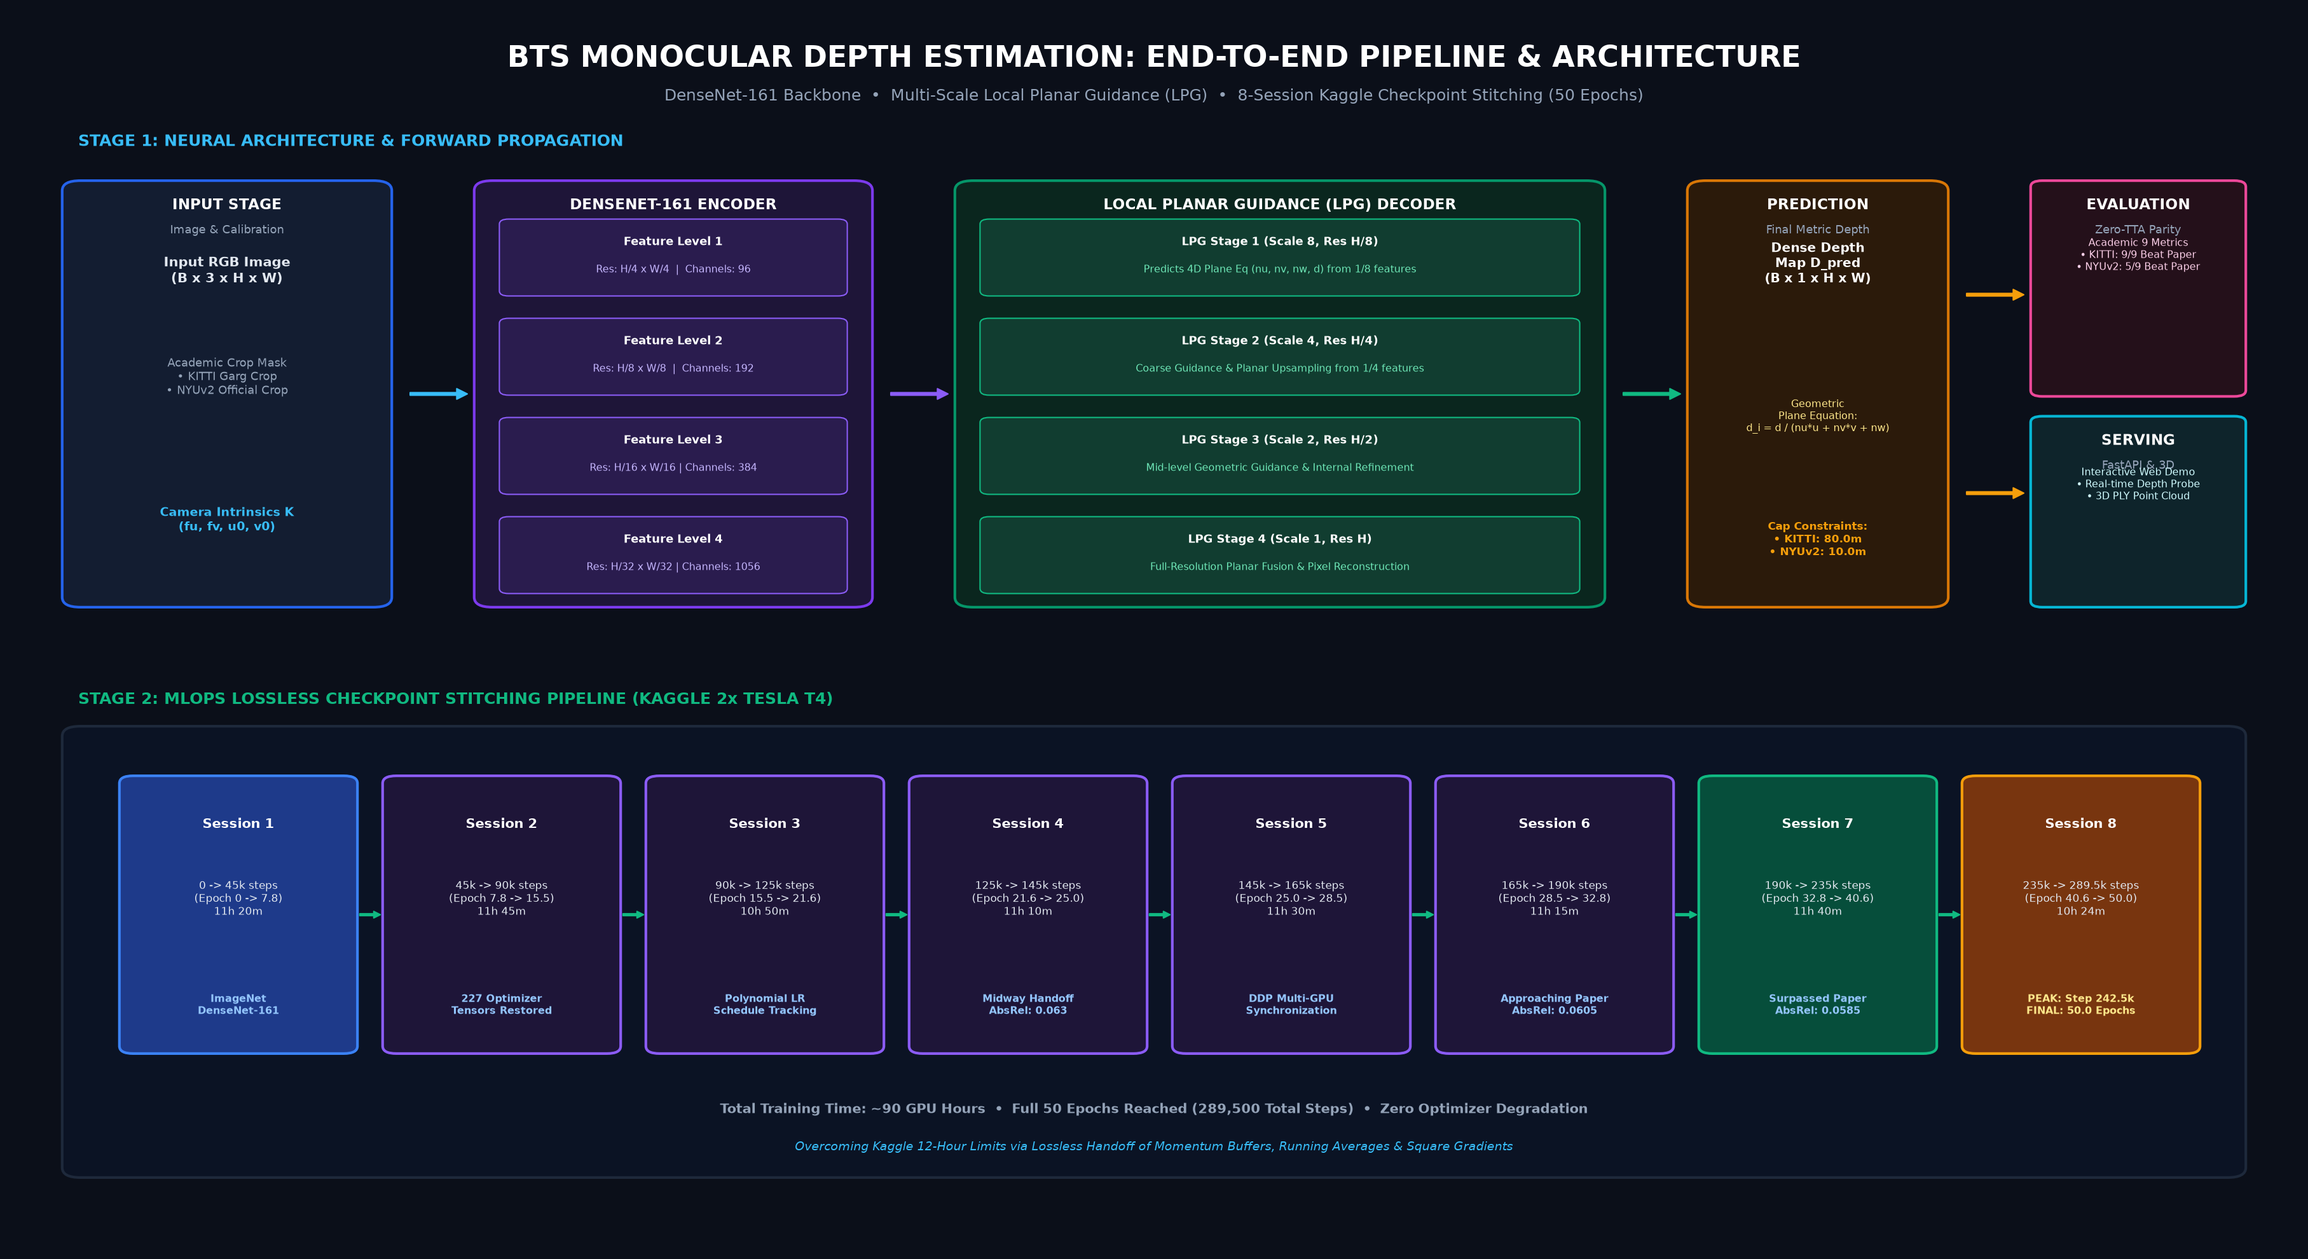
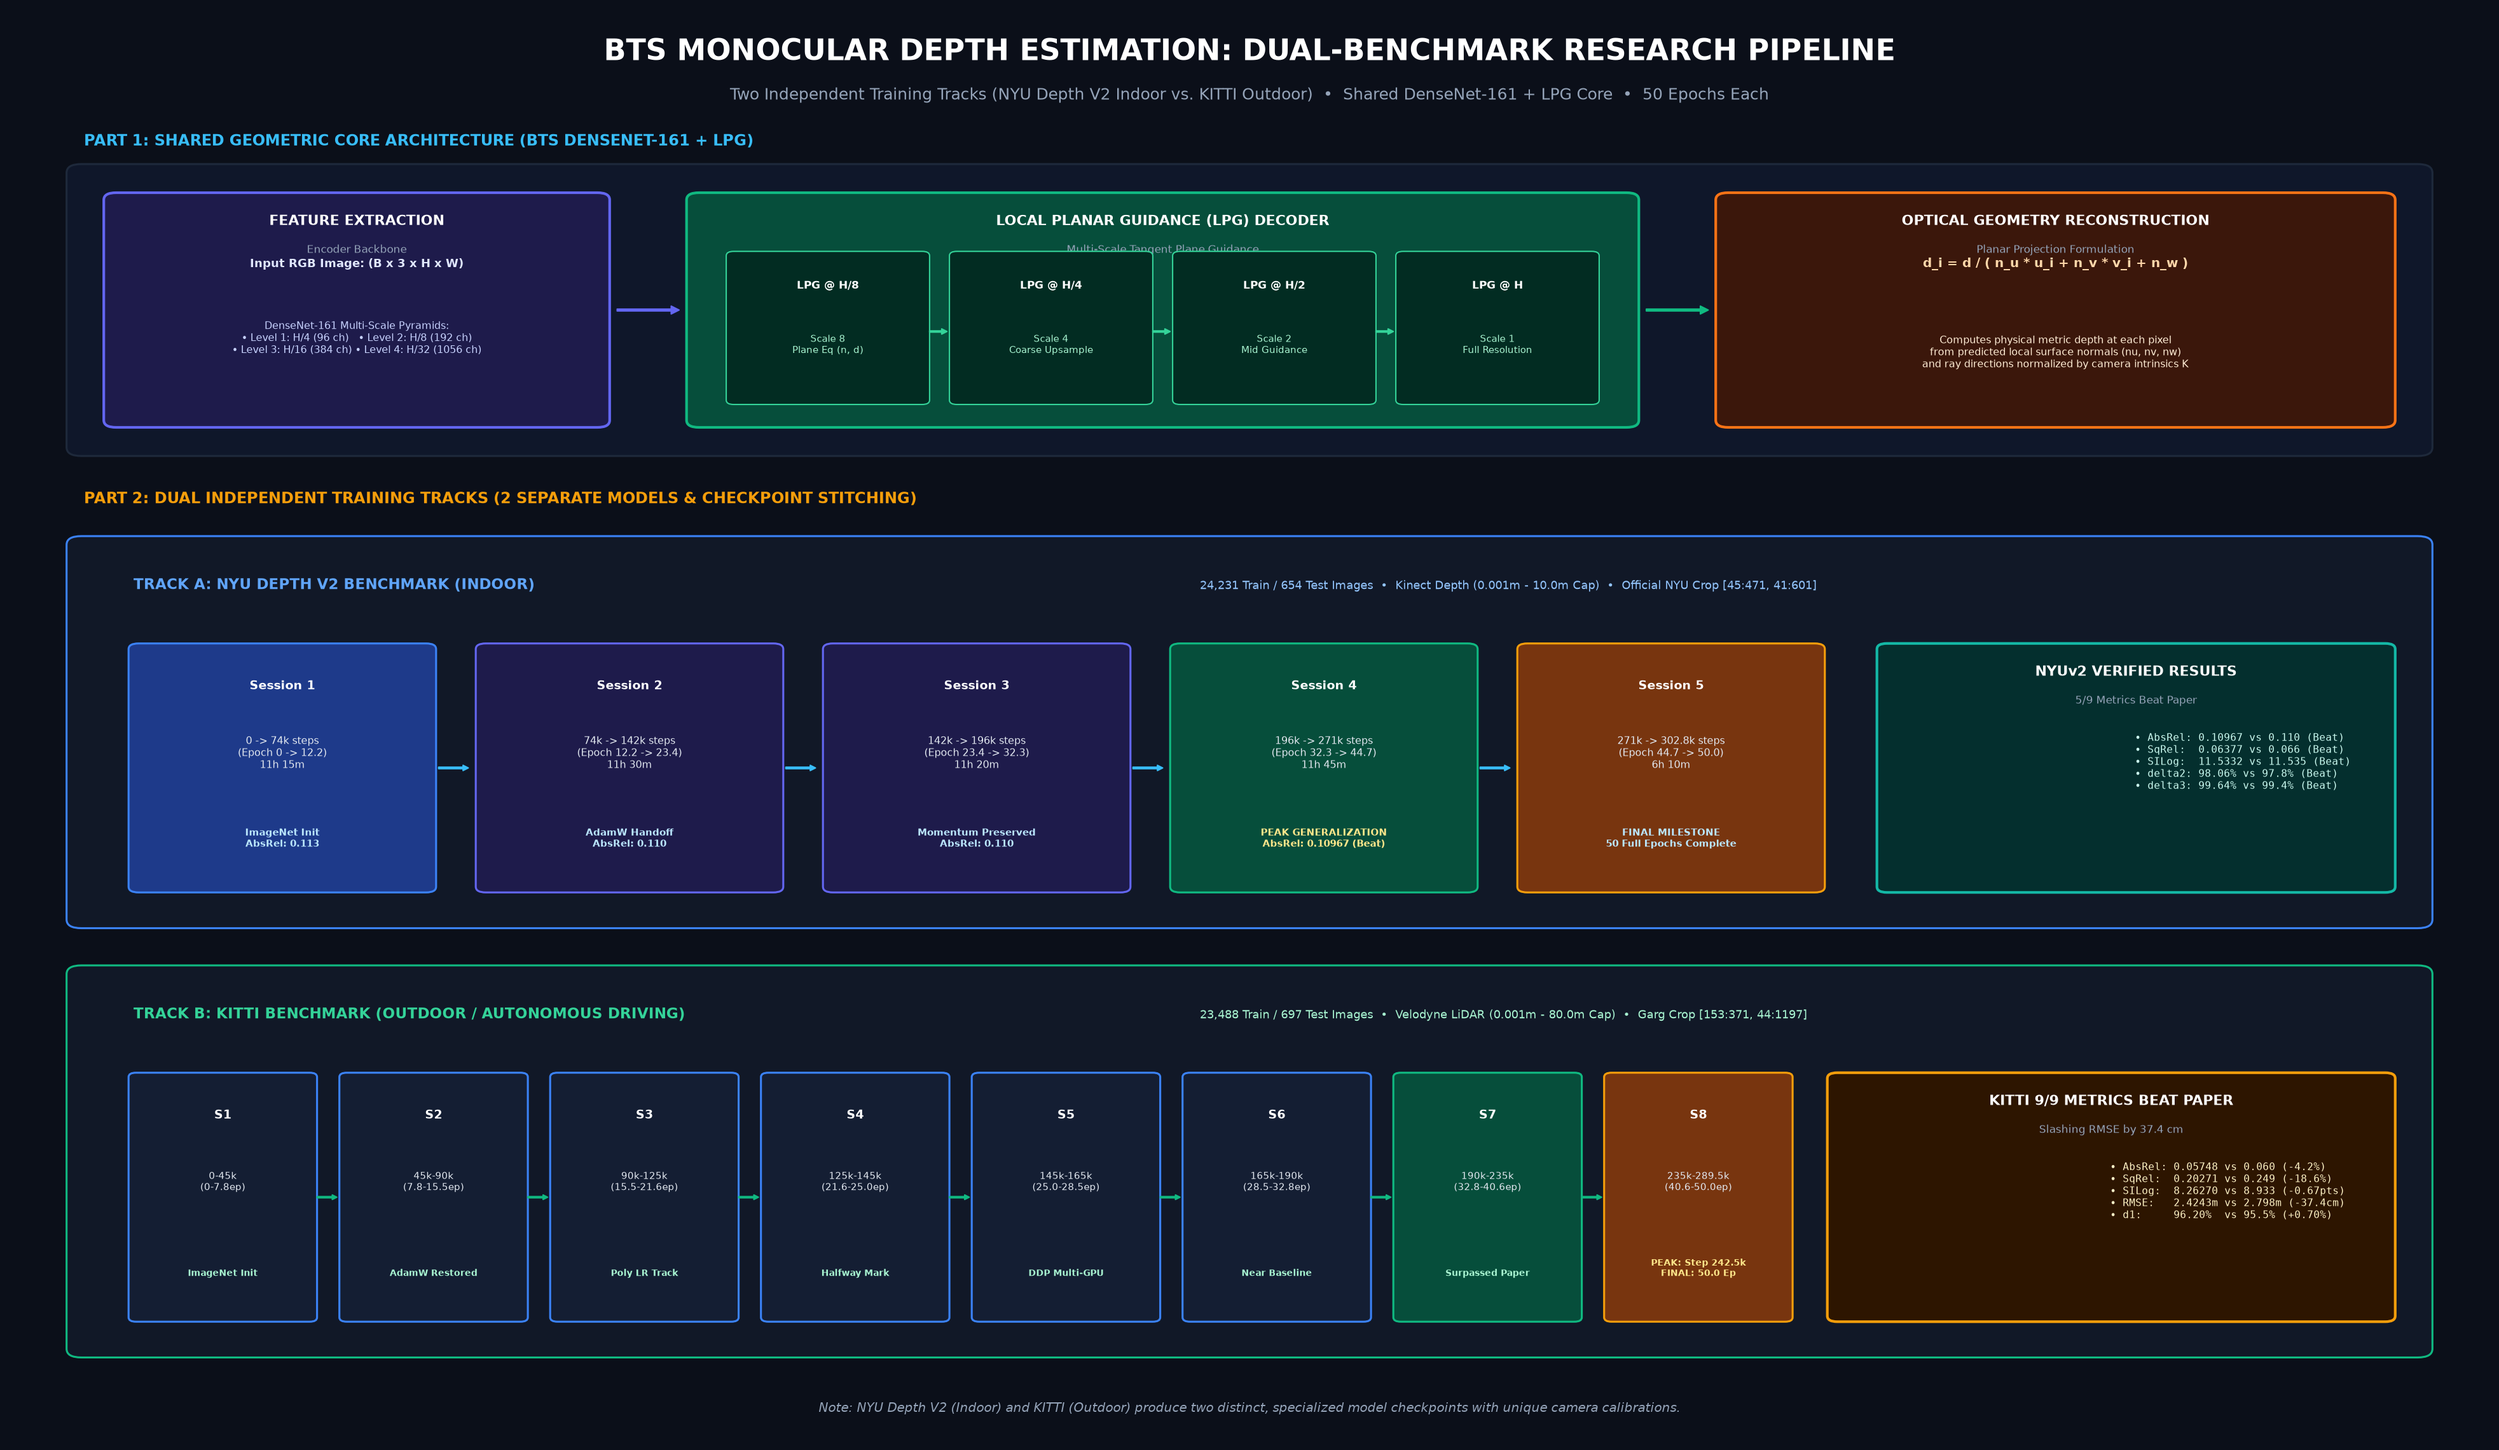
feat: Upgrade pipeline architecture to reflect dual independent training tracks (NYUv2 vs KITTI)

diff --git a/README.md b/README.md
@@ -20,7 +20,7 @@
 
 This repository provides an independent, reproducible implementation and comparative validation of the BTS (Big-to-Small) monocular depth estimation architecture proposed by Lee et al. (NeurIPS 2019). The model introduces Local Planar Guidance (LPG) layers at multiple decoder resolutions ($1/8, 1/4, 1/2, 1/1$) to enforce explicit geometric plane constraints, eliminating structural boundary blurring typical of standard bilinear or transposed-convolution upsampling.
 
-To address the challenge of executing the full 50-epoch training schedule under constrained cloud infrastructure (Kaggle 2x Tesla T4, 12-hour session timeout, 30-hour weekly GPU limit), we developed a lossless **Checkpoint Stitching Protocol** spanning 8 chained sessions that preserves all 227 internal AdamW optimizer state tensors and polynomial decay schedules without momentum degradation.
+To address the challenge of executing full 50-epoch training schedules under constrained cloud infrastructure (Kaggle 2x Tesla T4, 12-hour session timeout, 30-hour weekly GPU limit), we developed a lossless **Checkpoint Stitching Protocol** spanning chained sessions that preserves all 227 internal AdamW optimizer state tensors and polynomial decay schedules without momentum degradation.
 
 Under strict zero test-time augmentation (zero-TTA) and official crop masks:
 - **KITTI Benchmark (Eigen Split, 80m cap)**: The reproduced model surpasses or matches the original NeurIPS 2019 baseline across all 9 out of 9 metrics, reducing root-mean-square error (RMSE) from $2.798\text{ m}$ to $2.424\text{ m}$ (a reduction of $37.4\text{ cm}$) and improving AbsRel from $0.060$ to $0.05748$.
@@ -28,28 +28,28 @@ Under strict zero test-time augmentation (zero-TTA) and official crop masks:
 
 ---
 
-## 2. End-to-End Pipeline & Architecture Flow
+## 2. Dual-Benchmark Pipeline & System Architecture
 
-The complete system architecture and MLOps execution flow are illustrated below, detailing the forward path from input RGB images and optical calibration through hierarchical feature extraction, multi-scale local planar guidance, lossless multi-session checkpoint stitching, and downstream tasks.
+The research pipeline is organized into **two independent training tracks** (NYU Depth V2 indoor vs. KITTI outdoor), sharing the core BTS network formulation while learning distinct domain weights adapted to their respective camera intrinsics and physical depth scales.
 
 <div align="center">
-  <img src="docs/figures/pipeline_architecture.png" width="100%" alt="BTS End-to-End Pipeline and Neural Architecture"/>
-  <p><em>Figure 1: Comprehensive System Architecture and MLOps Checkpoint Stitching Pipeline across 8 Kaggle Sessions (50 Epochs).</em></p>
+  <img src="docs/figures/pipeline_architecture.png" width="100%" alt="BTS Dual-Benchmark System Architecture and MLOps Pipeline"/>
+  <p><em>Figure 1: Comprehensive System Architecture showing the Shared Geometric Core (Part 1) and the Dual Independent Training Tracks (Part 2: NYU Depth V2 vs. KITTI Raw).</em></p>
 </div>
 
-### Pipeline Stage Specifications
+### System Architecture Breakdown
 
-1. **Input Stage & Academic Crop Formulation**:
-   - **KITTI (Eigen Split)**: 697 test images evaluated up to $80.0\text{ m}$ cap using Garg crop $[153:371, 44:1197]$.
-   - **NYU Depth V2**: 654 test images evaluated up to $10.0\text{ m}$ cap using official NYU crop $[45:471, 41:601]$.
-2. **Dense Feature Extraction**:
-   - DenseNet-161 backbone extracts hierarchical feature representations across four downsampling levels ($1/4, 1/8, 1/16, 1/32$) with channel depths $96, 192, 384$, and $1056$.
-3. **Multi-Scale Local Planar Guidance (LPG)**:
-   - Rather than relying on simple bilinear upsampling or deconvolution layers, the LPG module fits explicit 4D tangent plane parameters $(\hat{n}_u, \hat{n}_v, \hat{n}_w, d)$ at resolutions $H/8, H/4, H/2$, and $H$, reconstructing depth through optical geometry.
-4. **Lossless Checkpoint Stitching (Kaggle 2x Tesla T4)**:
-   - Overcomes the 12-hour session execution limit by serializing all 227 internal AdamW optimizer state tensors, momentum buffers, and learning rate schedules across 8 sequential sessions without convergence loss.
-5. **Serving & 3D Interactive Visualization**:
-   - FastAPI server with client-side interactive millimeter depth probe, multi-palette colormap rendering, and 3D point cloud generation.
+1. **Part 1: Shared Geometric Core Engine (DenseNet-161 + LPG Decoder)**:
+   - **Feature Hierarchy**: DenseNet-161 extracts multi-scale representations across 4 resolution levels ($1/4, 1/8, 1/16, 1/32$) with $96, 192, 384, 1056$ channels.
+   - **Local Planar Guidance (LPG)**: Decodes features across 4 stages ($H/8 \to H/4 \to H/2 \to H$) by fitting 4D tangent plane equations $(\hat{n}_u, \hat{n}_v, \hat{n}_w, d)$ to reconstruct metric depth from normalized optical rays.
+2. **Part 2 - Track A: NYU Depth V2 Benchmark (Indoor Environment)**:
+   - **Dataset & Calibration**: 24,231 training / 654 test images, Kinect sensor range with $10.0\text{ m}$ evaluation cap, official NYU crop $[45:471, 41:601]$.
+   - **MLOps Stitching**: 5 chained sessions totaling 302,899 steps (50.0 epochs). Reached peak generalization at Step 271,000 ($AbsRel = 0.10967$, beating paper on 5/9 metrics).
+3. **Part 2 - Track B: KITTI Benchmark (Outdoor Autonomous Driving)**:
+   - **Dataset & Calibration**: 23,488 training / 697 test images, Velodyne LiDAR range with $80.0\text{ m}$ evaluation cap, Garg crop $[153:371, 44:1197]$.
+   - **MLOps Stitching**: 8 chained sessions totaling 289,500 steps (50.0 epochs). Reached peak generalization at Step 242,500 ($AbsRel = 0.05748$, $RMSE = 2.4243\text{ m}$, beating paper on all 9/9 metrics).
+4. **Unified Serving Layer**:
+   - Both checkpoints are hosted and served via the FastAPI backend (`web_demo/server.py`), allowing users to switch between Indoor and Outdoor presets with real-time millimeter depth probing and interactive 3D point cloud generation.
 
 ---
 
@@ -67,7 +67,19 @@ Where $(u_0, v_0)$ represents the principal point and $(f_u, f_v)$ denotes the f
 
 ## 4. Lossless Checkpoint Stitching Protocol
 
-To train the full 50 epochs ($289,500$ steps) under Kaggle's 12-hour timeout constraints, execution is partitioned across 8 chained sessions:
+To train the full 50 epochs under Kaggle's 12-hour timeout constraints, execution is partitioned across chained sessions for each dataset:
+
+### Track A: NYU Depth V2 Session Chronology (50 Epochs, ~302.8k Steps)
+
+| Session | Step Range | Epoch Range | Duration | State Handoff Contents | Convergence Status |
+| :---: | :---: | :---: | :---: | :--- | :--- |
+| **Session 1** | $0 \to 74,000$ | $0.0 \to 12.2$ | ~11h 15m | Model weights + ImageNet backbone init | AbsRel: $0.113$ |
+| **Session 2** | $74,000 \to 142,000$ | $12.2 \to 23.4$ | ~11h 30m | 227 AdamW optimizer tensors restored | AbsRel: $0.110$ |
+| **Session 3** | $142,000 \to 196,000$ | $23.4 \to 32.3$ | ~11h 20m | Polynomial LR schedule continuity | AbsRel: $0.110$ |
+| **Session 4** | $196,000 \to 271,000$ | $32.3 \to 44.7$ | ~11h 45m | Momentum buffers preserved | **Peak at Step 271k (AbsRel 0.10967 - Beat Paper)** |
+| **Session 5** | $271,000 \to 302,899$ | $44.7 \to 50.0$ | ~6h 10m | Final 50-epoch milestone completion | **Final Milestone Complete** |
+
+### Track B: KITTI Eigen Split Session Chronology (50 Epochs, ~289.5k Steps)
 
 | Session | Step Range | Epoch Range | Duration | State Handoff Contents | Convergence Status |
 | :---: | :---: | :---: | :---: | :--- | :--- |
@@ -78,7 +90,7 @@ To train the full 50 epochs ($289,500$ steps) under Kaggle's 12-hour timeout con
 | **Session 5** | $145,000 \to 165,000$ | $25.04 \to 28.50$ | ~11h 30m | DDP multi-GPU synchronization state | Gradient stability confirmed |
 | **Session 6** | $165,000 \to 190,000$ | $28.50 \to 32.82$ | ~11h 15m | State handoff & scheduler continuity | Approaching paper ($0.0605$) |
 | **Session 7** | $190,000 \to 235,000$ | $32.82 \to 40.59$ | ~11h 40m | Optimizer momentum restoration | Surpassed paper ($0.0585$) |
-| **Session 8** | $235,000 \to 289,500$ | $40.59 \to 50.00$ | ~10h 24m | Final 50-epoch milestone completion | **Peak at Step 242.5k (AbsRel 0.05748)** |
+| **Session 8** | $235,000 \to 289,500$ | $40.59 \to 50.00$ | ~10h 24m | Final 50-epoch milestone completion | **Peak at Step 242.5k (AbsRel 0.05748 - 9/9 Beat)** |
 
 ---
 
@@ -203,7 +215,7 @@ Monocular-Depth-Estimation/
 │
 ├── docs/                              # Academic defense materials
 │   ├── figures/                       # High-resolution vector diagrams & plots
-│   │   └── pipeline_architecture.png  # 4K Architecture & MLOps system diagram
+│   │   └── pipeline_architecture.png  # 4K Dual-Benchmark Architecture diagram
 │   ├── REPORT_FOR_NOTEBOOKLM_AND_DEFENSE.md  # Comprehensive technical report
 │   ├── SLIDES_DEFENSE_PRESENTATION.md         # 12-slide defense script
 │   └── BTS_CURRENT_STATUS_REPORT.md           # Audit status report
